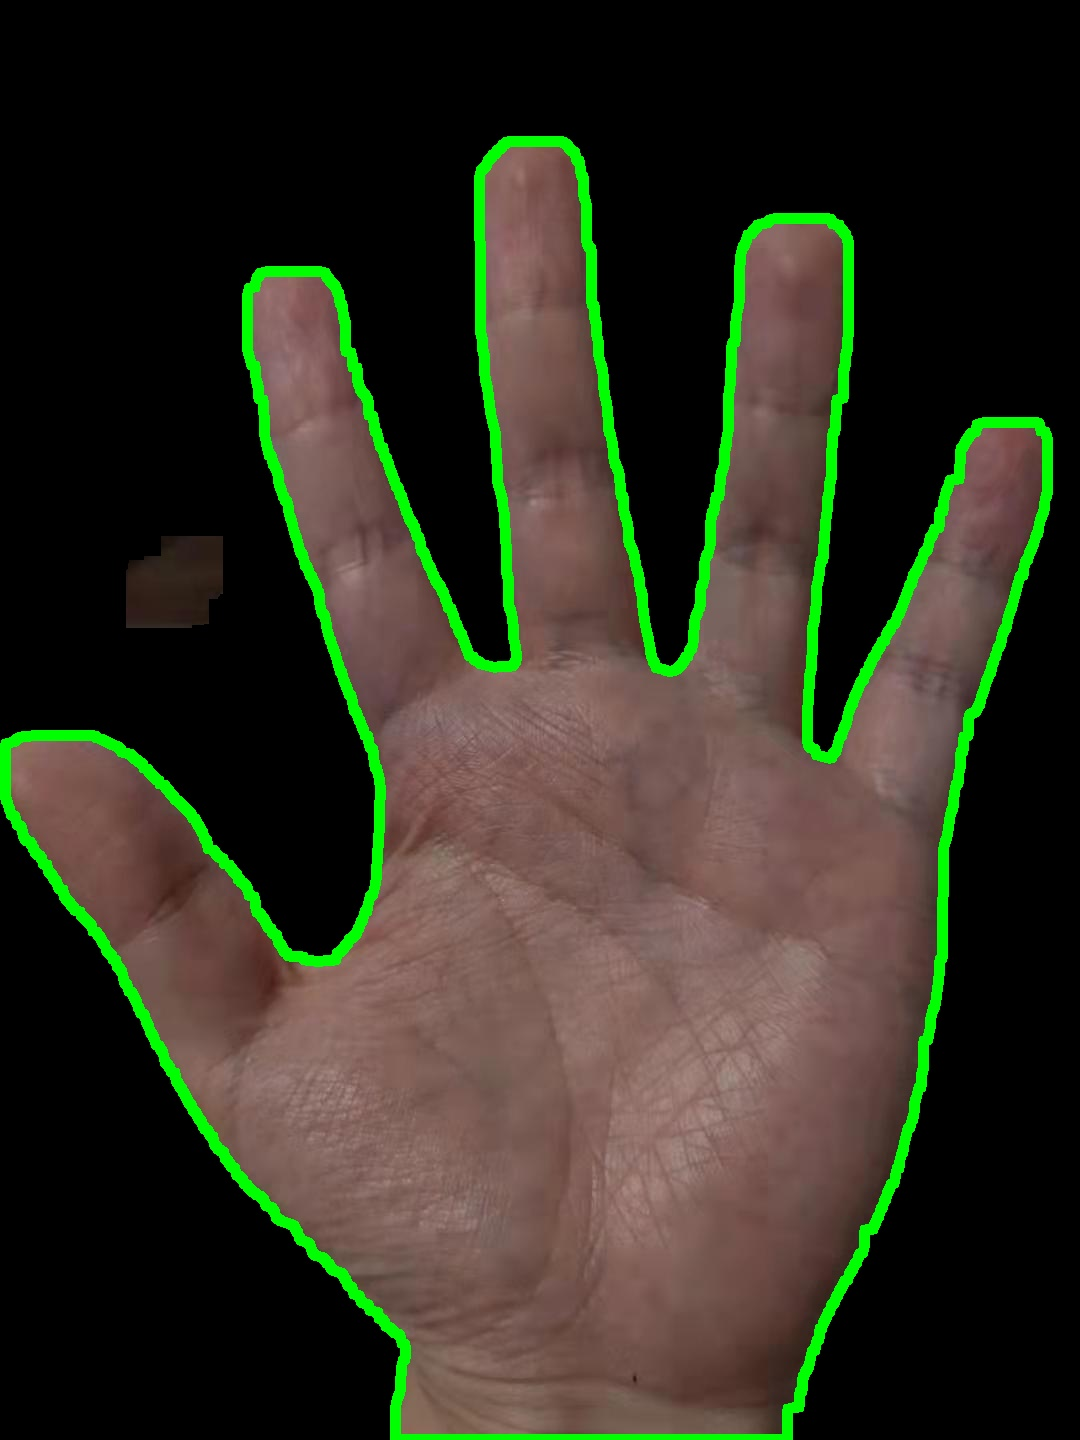
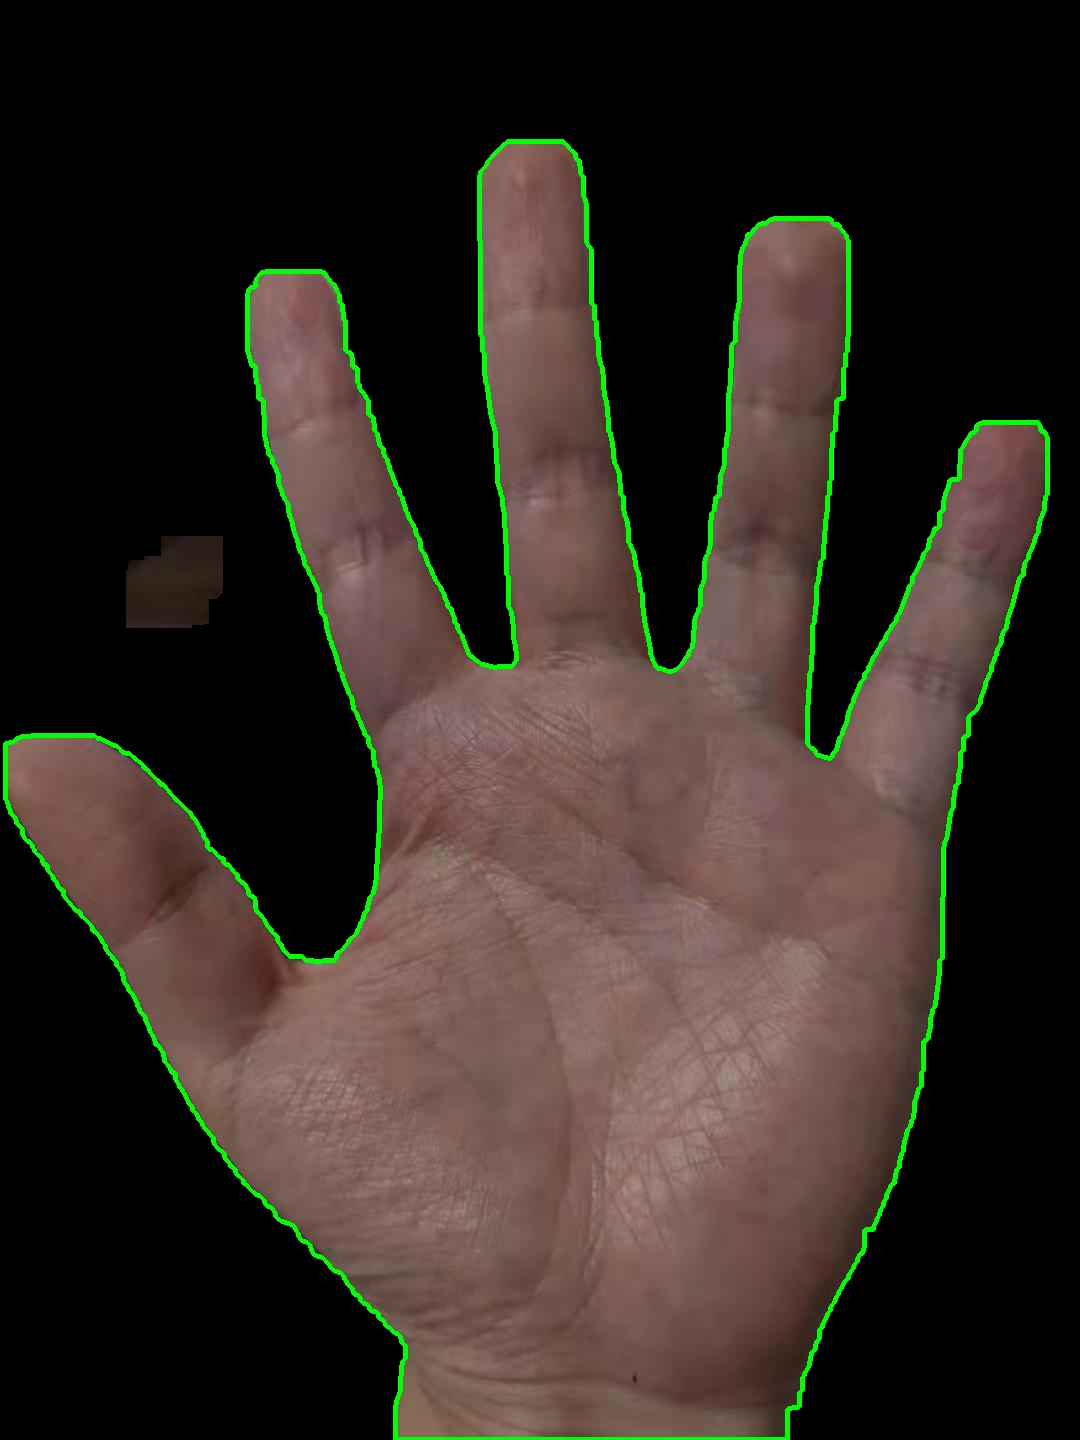
完成多个兴趣点的截取，并成功提取了健康线

diff --git a/core/roi/roi.py b/core/roi/roi.py
@@ -46,42 +46,137 @@ class ROI(object):
             cv2.circle(self.contourSkin, tuple(contour[left][0]), 5, [255, 255, 255], -1)
             cv2.circle(self.contourSkin, tuple(contour[right][0]), 5, [0, 255, 255], -1)
         cv2.imwrite("{0}_contour_anchor.jpg".format(UserName), contourSkin)
-        self.points = sorted(points, key=lambda x: x[0])
+        self.points = points
+        x = []
+        y = []
+        for each in self.points:
+            y.append(each[1])
+            x.append(each[0])
+        self.x = sorted(x)
+        self.y = sorted(y)
 
     def roi_main(self, contours):
-        x_min = self.points[0][0]
-        y_min = self.points[0][1]
-        x_max = self.points[0][0]
-        y_max = self.points[0][1]
-        for each in self.points:
-            y = each[1]
-            x = each[0]
-            if y <= y_min:
-                y_min = y
-            if x <= x_min:
-                x_min = x
-            if x >= x_max:
-                x_max = x
-            if y >= y_max:
-                y_max = y
+        yy = sorted(self.y, reverse=True)
+        x_min = min(self.x)
+        x_max = max(self.x)
+        y_min = yy[3]
+        y_max = max(self.y)
         for each in contours:
             x = each[0][0]
             y = each[0][1]
             if x <= x_min + 3 and x >= x_min - 3 and y >= y_max:
                 y_max = y
-            if y >= y_min - 3 and y <= y_min + 3 and x >= x_max:
-                x_max = x
         top_left = (x_min, y_min)
         bottom_right = (x_max, y_max)
-        cv2.rectangle(self.contourSkin, top_left, bottom_right, (255, 255, 0), 3)
-        cv2.imwrite("{0}_roi_main.jpg".format(UserName), self.contourSkin)
-        out = self.skin.copy()[top_left[1]:bottom_right[1],top_left[0]:bottom_right[0],:]
+        scp = self.contourSkin.copy()
+        cv2.rectangle(scp, top_left, bottom_right, (255, 255, 0), 3)
+        cv2.imwrite("{0}_roi_main.jpg".format(UserName), scp)
+        out = self.skin.copy()[top_left[1]:bottom_right[1], top_left[0]:bottom_right[0], :]
         cv2.imwrite("{0}_roi_main_out.jpg".format(UserName), out)
+        self.main_point = [top_left, bottom_right]
+
+    def roi_thenar(self):
+        top_left = (min(self.x) + 7, max(self.y) + 7)
+        bottom_right = (
+        int((self.main_point[1][0] - self.main_point[0][0]) / 2) + self.main_point[0][0], self.main_point[1][1])
+        scp = self.contourSkin.copy()
+        cv2.rectangle(scp, top_left, bottom_right, (0, 255, 0), 3)
+        cv2.imwrite("{0}_roi_thenar.jpg".format(UserName), scp)
+        out = self.skin.copy()[top_left[1]:bottom_right[1], top_left[0]:bottom_right[0], :]
+        cv2.imwrite("{0}_roi_thenar_out.jpg".format(UserName), out)
+
+    def roi_5(self):
+        p1 = p2 = (0, 0)
+        for each in self.points:
+            if each[0] == self.x[3]:
+                p1 = each
+            if each[0] == self.x[4]:
+                p2 = each
+        y = self.main_point[1][1]
+        center_x = ((self.main_point[1][0] - self.main_point[0][0]) / 2 + self.main_point[0][0])
+        x1 = int(center_x * 0.875)
+        x2 = int(center_x * 1.125)
+        p3 = (x1,y)
+        p4 = (x2,y)
+        p = np.array([p1,p2,p4,p3],np.int32)
+        scp = self.contourSkin.copy()
+        cv2.polylines(scp, [p], True, (0, 255, 255), 3)
+        cv2.imwrite("{0}_roi_5.jpg".format(UserName), scp)
+        mask = np.zeros(self.skin.copy().shape, dtype=np.uint8)
+        mask2 = cv2.fillPoly(mask, [p], (255, 255, 255))
+        out = cv2.bitwise_and(self.skin.copy(),mask2)
+        xp = []
+        yp = []
+        for each in [p1,p2,p4,p3]:
+          xp.append(each[0])
+          yp.append(each[1])
+        out1= self.skin.copy()[min(yp):max(yp),min(xp):max(xp), :]
+        cv2.imwrite("{0}_roi_5_out.jpg".format(UserName), out1)
+
+    def roi_small_thenar(self):
+        x = 0
+        for each in self.points:
+            if each[0] == self.x[5]:
+                x = each[0]
+        y = self.main_point[0][1]
+        p1 = (x,y)
+        p2 = (self.main_point[1][0],self.main_point[0][1])
+        p3 = self.main_point[1]
+        y = self.main_point[1][1]
+        center_x = ((self.main_point[1][0] - self.main_point[0][0]) / 2 + self.main_point[0][0])
+        x1 = int(center_x * 0.875)
+        p4 = (x1,y)
+        p = np.array([p1, p2, p3, p4], np.int32)
+        scp = self.contourSkin.copy()
+        cv2.polylines(scp, [p], True, (0, 255, 255), 3)
+        cv2.imwrite("{0}_roi_small_thenar.jpg".format(UserName), scp)
+        mask = np.zeros(self.skin.copy().shape, dtype=np.uint8)
+        mask2 = cv2.fillPoly(mask, [p], (255, 255, 255))
+        out = cv2.bitwise_and(self.skin.copy(), mask2)
+        xp = []
+        yp = []
+        for each in [p1, p2, p4, p3]:
+            xp.append(each[0])
+            yp.append(each[1])
+        out1 = self.skin.copy()[min(yp):max(yp), min(xp):max(xp), :]
+        cv2.imwrite("{0}_roi_small_thenar_out.jpg".format(UserName), out1)
+
+    def roi_7(self):
+        y_min = 0
+        y_max = 0
+        for each in self.points:
+            if each[0] == self.x[1]:
+                y_max = each[1]
+            if each[0] == self.x[6]:
+                y_min = each[1]
+        top_left = (self.x[5],y_min)
+        bottom_right = (self.x[6],y_max)
+        scp = self.contourSkin.copy()
+        cv2.rectangle(scp, top_left, bottom_right, (255, 255, 0), 3)
+        cv2.imwrite("{0}_roi_7.jpg".format(UserName), scp)
+        out = self.skin.copy()[top_left[1]:bottom_right[1], top_left[0]:bottom_right[0], :]
+        cv2.imwrite("{0}_roi_7_out.jpg".format(UserName), out)
+        self.main_point = [top_left, bottom_right]
+
+
+    def roi9(self):
+        pass
+
+    def roi10(self):
+        pass
+
+
+
+
+
+
+
+
+
 
     def roi_10(self):
         x_min = self.points[2][0]
         y_min = self.points[2][1]
-
 
 
 if __name__ == '__main__':
@@ -91,3 +186,7 @@ if __name__ == '__main__':
     r = ROI(contour, skin, contourSkin)
     r.roi(ct, userName)
     r.roi_main(ct)
+    r.roi_thenar()
+    r.roi_small_thenar()
+    r.roi_5()
+    r.roi_7()

diff --git a/core/feature/pre/pre.py b/core/feature/pre/pre.py
@@ -1,0 +1,89 @@
+import cv2
+import numpy as np
+from core.tools import showImage
+from core.feature.gabor.gabor import Gabor
+
+
+
+def scharr_demo(image):
+    scharr_x = cv2.Scharr(image, cv2.CV_64F, 1, 0)
+    scharrx = cv2.convertScaleAbs(scharr_x)
+    scharr_y = cv2.Scharr(image, cv2.CV_64F, 0, 1)
+    scharry = cv2.convertScaleAbs(scharr_y)
+    # scharrxy = cv2.addWeighted(scharrx, 0.5, scharry, 0.5, 0)
+    cv2.imshow("grad_x", scharrx)  # 将src图片放入该创建的窗口中
+    cv2.waitKey(0)
+    cv2.imshow("grad_y", scharry)  # 将src图片放入该创建的窗口中
+    cv2.waitKey(0)
+    # cv2.imshow("gradxy", scharrxy)  # 将src图片放入该创建的窗口中
+
+
+def sobel_demo(image):
+    grad_x = cv2.Sobel(image, cv2.CV_8U, 1, 0, ksize=3)
+    gradx = cv2.convertScaleAbs(grad_x)
+    # grad_y = cv2.Sobel(image, cv2.CV_64F, 0, 1, ksize=3)
+    # grady = cv2.convertScaleAbs(grad_y)
+    # gradxy = cv2.addWeighted(gradx, 0.5, grady, 0.5, 0)
+    cv2.imshow("grad_x", grad_x)  # 将src图片放入该创建的窗口中
+    cv2.waitKey(0)
+
+    # cv2.imshow("grad_y", grad_y)  # 将src图片放入该创建的窗口中
+    # cv2.waitKey(0)
+    # cv2.imshow("gradxy", gradxy)  # 将src图片放入该创建的窗口中
+    # cv2.waitKey(0)
+    # dst = cv2.bitwise_not(grad_x)
+    # blur = cv2.blur(dst, (1, 1))
+    _, thresh1 = cv2.threshold(grad_x, 127, 255, cv2.THRESH_BINARY)
+    showImage(thresh1)
+    nccomps  = cv2.connectedComponentsWithStats(thresh1)
+    stats = nccomps[2]
+    for istat in stats:
+        if istat[4] < 100:
+            cv2.rectangle(grad_x, tuple(istat[0:2]), tuple(istat[0:2] + istat[2:4]), 0, thickness=-1)  # 26
+
+
+
+
+
+    showImage(grad_x)
+
+def PreImage(img):
+    roi_main_gray = cv2.cvtColor(img, cv2.COLOR_BGR2GRAY)
+    th2 = cv2.adaptiveThreshold(roi_main_gray, 255, cv2.ADAPTIVE_THRESH_MEAN_C, cv2.THRESH_BINARY_INV, 11, 2)
+    kernel = np.ones((2, 2), np.uint8)
+    opening = cv2.morphologyEx(th2, cv2.MORPH_OPEN, kernel)
+    showImage(opening)
+
+    sobel_demo(opening)
+
+    # scharr_demo(opening)
+
+    # 提取垂直线  #效果不好
+    # vline = cv2.getStructuringElement(cv2.MORPH_RECT, (1, int(opening.shape[0]/16)), (-1, -1))
+    # dst = cv2.morphologyEx(opening, cv2.MORPH_OPEN, vline)
+    # dst = cv2.bitwise_not(dst)
+    # showImage(dst)
+
+
+
+    #gabor 可以只用做取交叉点
+    # gabor_banks = Gabor([1,2])
+    # all_filtered = np.array([cv2.filter2D(opening, cv2.CV_32F, f) for f in gabor_banks])
+    # for index,each in enumerate(all_filtered) :
+    #     if index == 0:
+    #         img1 = each
+    #     else:
+    #         res = cv2.add(img1, each)
+    #         img1 = res
+    # showImage(img1)
+
+
+
+
+if __name__ == '__main__':
+    userName = "cqh_test"
+    ImagePath = "../../../image/{}".format(userName + "_roi_5_out.jpg")
+    img = cv2.imread(ImagePath)
+
+
+    PreImage(img)

diff --git a/core/contour/contour.py b/core/contour/contour.py
@@ -2,11 +2,10 @@ import cv2
 import numpy as np
 
 
-
 class Contour(object):
-    def __init__(self,UserName):
+    def __init__(self, UserName):
         self.ImagePath = "../../image/{}.jpg".format(UserName)
-        self.UserName = self.ImagePath.replace(".jpg","").replace(".jpeg","").replace(".png","")
+        self.UserName = self.ImagePath.replace(".jpg", "").replace(".jpeg", "").replace(".png", "")
         self.img = cv2.imread(self.ImagePath)
 
     # 某些论文中提及的简单方式提取，也可使用别的优化
@@ -23,7 +22,7 @@ class Contour(object):
         return skin, opening
 
     def drawContour(self):
-        skin,opening = self.cutSkin()
+        skin, opening = self.cutSkin()
         skinc = skin.copy()
         _, black_and_white = cv2.threshold(opening, 127, 255, 0)
         contours, _ = cv2.findContours(black_and_white, cv2.RETR_TREE, cv2.CHAIN_APPROX_SIMPLE)
@@ -39,12 +38,11 @@ class Contour(object):
                     maxArea = area
                     ci = i
             largest_contour = contours[ci]
-            contour = cv2.drawContours(final_Contour, [largest_contour], 0, (0, 255, 0), 10)
+            contour = cv2.drawContours(final_Contour, [largest_contour], 0, (0, 255, 0), 3)
             cv2.imwrite("{0}_contour.jpg".format(self.UserName), final_Contour)
-            contourSkin = cv2.drawContours(skin, [largest_contour], 0, (0, 255, 0), 10)
+            contourSkin = cv2.drawContours(skin, [largest_contour], 0, (0, 255, 0), 3)
             cv2.imwrite("{0}_contour_skin.jpg".format(self.UserName), skin)
-            return largest_contour, skinc,contour,contourSkin
-
+            return largest_contour, skinc, contour, contourSkin
 
 
 if __name__ == '__main__':

diff --git a/core/feature/gabor/gabor.py b/core/feature/gabor/gabor.py
@@ -1,0 +1,35 @@
+import numpy as np
+import cv2
+import math
+from core.tools import showImage
+_sigma_conv = (3.0/2.0)/((6*math.log(10))**0.5)
+def _gabor_sigma(ridge_period):
+    return _sigma_conv * ridge_period
+
+def _gabor_size(ridge_period):
+    p = int(round(ridge_period * 2 + 1))
+    if p % 2 == 0:
+        p += 1
+    return (p, p)
+
+def gabor_kernel(period, orientation):
+    f = cv2.getGaborKernel(_gabor_size(period), _gabor_sigma(period), np.pi/2 - orientation, period, gamma = 1, psi = 0)
+    f /= f.sum()
+    f -= f.mean()
+    return f
+
+
+def Gabor(directs):
+    ridge_period = 7
+    directsP = []
+    for each in directs:
+        directsP.append(np.pi/each)
+    gabor_bank = []
+    for each in directsP:
+        gabor_bank.append(gabor_kernel(ridge_period,each))
+    return gabor_bank
+
+
+if __name__ == '__main__':
+    gabor_banks = Gabor([1, 2, 3, 4])
+    showImage(gabor_banks[2])

diff --git a/core/feature/feature_main.py b/core/feature/feature_main.py
@@ -53,6 +53,9 @@ class MainFeature(object):
         # _,thresh1=cv2.threshold(roi_main_blurred,90,255,cv2.THRESH_BINARY)
         # showImage(thresh1)
 
+
+
+
     def compute_crossing_number(self,values):
         return np.count_nonzero(values < np.roll(values, -1))
 

diff --git a/core/feature/thenar/feature.py b/core/feature/thenar/feature.py
@@ -1,0 +1,14 @@
+from core.tools import *
+import numpy as np
+
+class ThenarFeature(object):
+    def __init__(self,thenar):
+        self.thenar = thenar
+    def getLine(self):
+        pass
+
+
+
+
+
+
